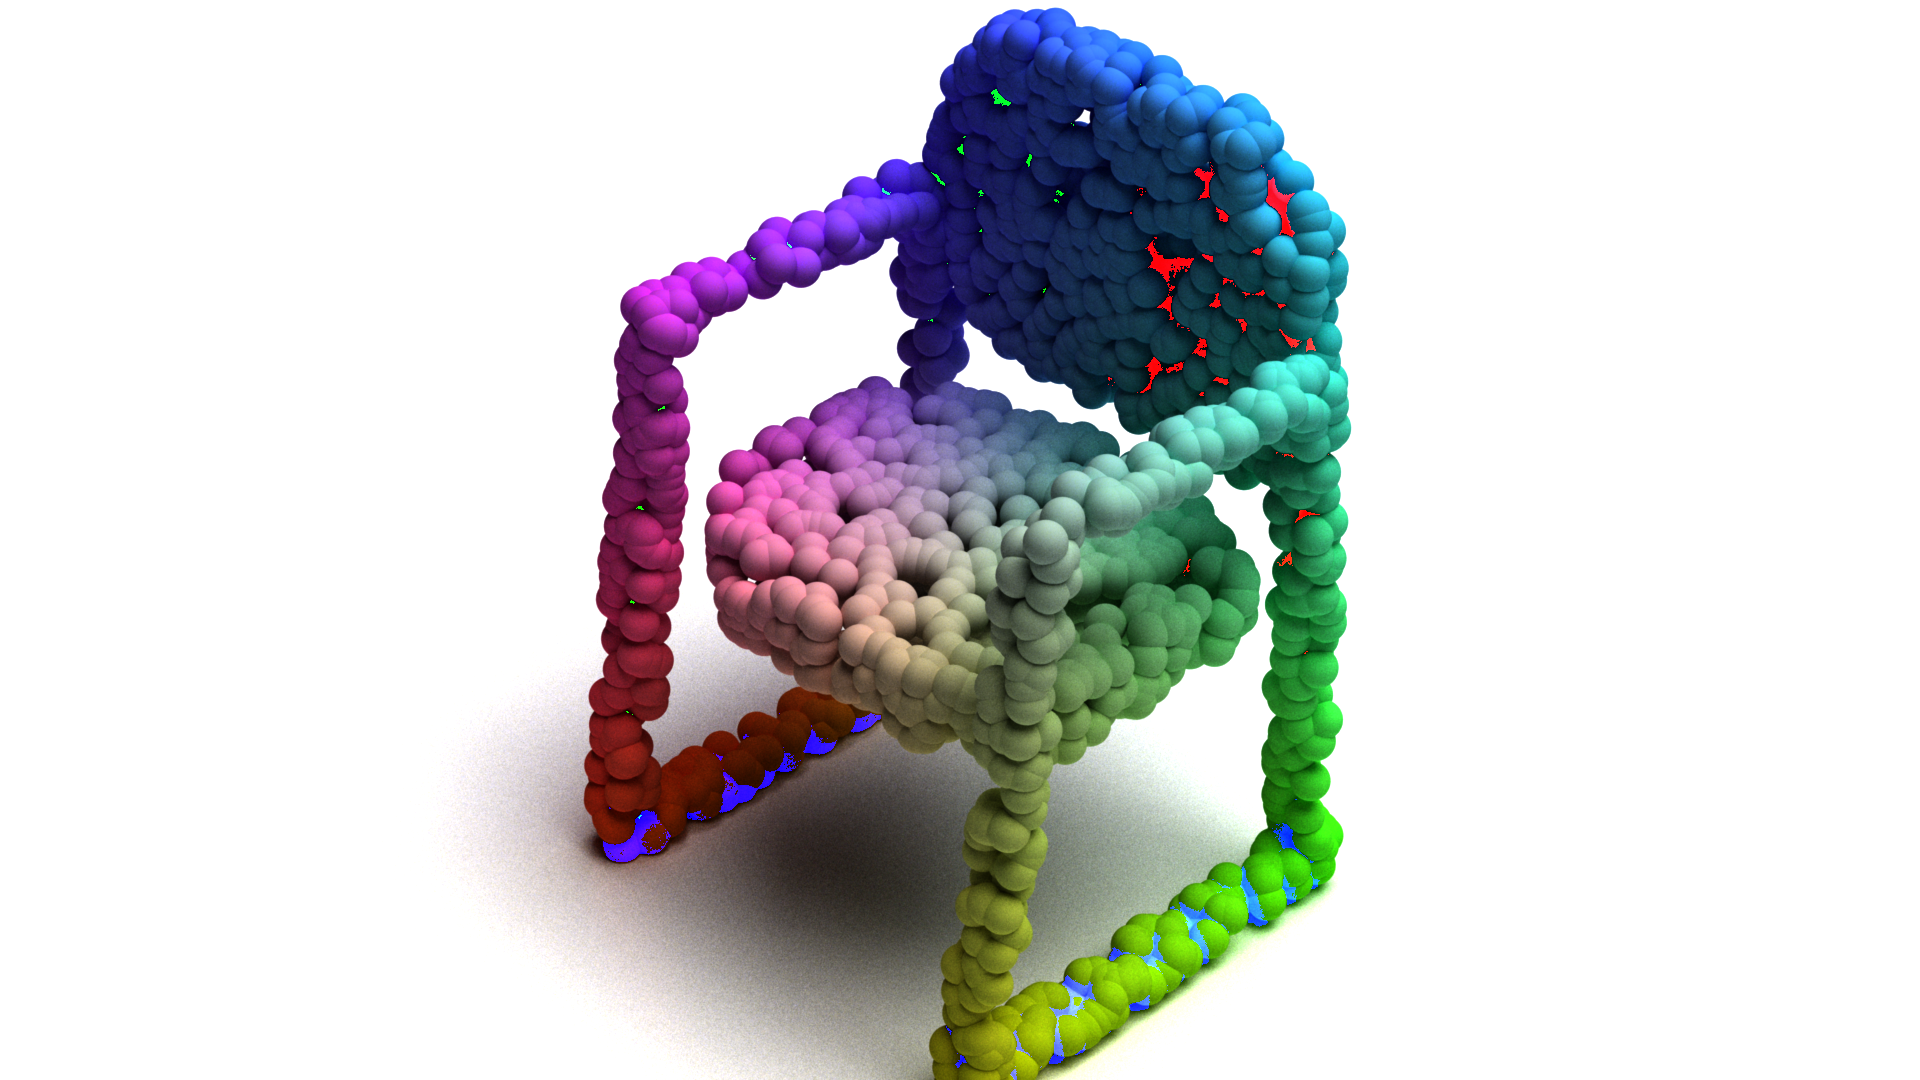
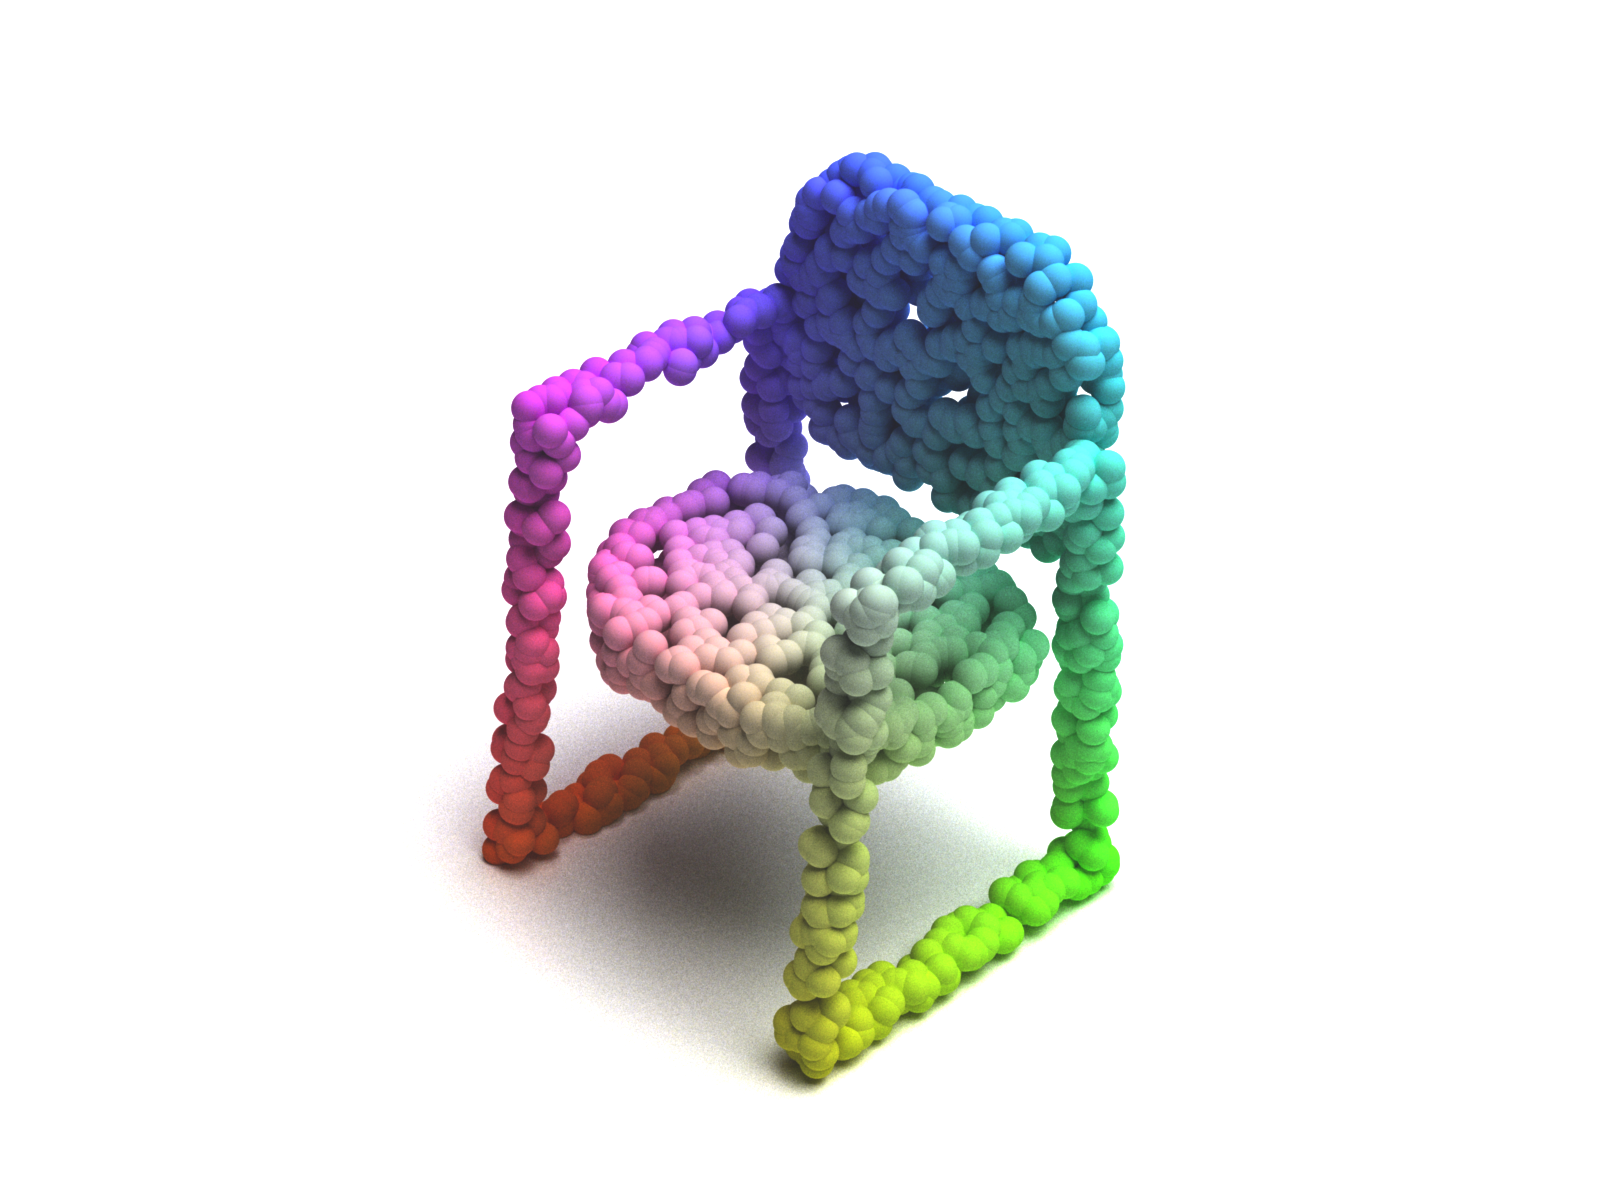
fix for color range

Changed region(s): [[0.25, 0.0, 0.7188, 1.0]]

diff --git a/pointflow_fig_colorful.py b/pointflow_fig_colorful.py
@@ -26,7 +26,7 @@ imageio.plugins.freeimage.download()
 #     rgb_image = data.astype('uint8')
 #     # rgb_image = imageio.core.image_as_uint(rgb_image, bitdepth=8)
 
-#     imageio.imwrite(jpg_file, rgb_image, format='jpeg')
+#     imageio.imwrite(jpg_file, rgb_image)
 #     return True
 
 
@@ -45,15 +45,15 @@ def convert_exr_to_jpg(exr_file, jpg_file):
     # remove alpha channel for jpg conversion
     image = image[:,:,:3]
 
-
-    data = 65535 * image
-    data[data>65535]=65535
+    data = 65535 * image + 10000
+    data[data > 65535] = 65535
     rgb_image = data.astype('uint16')
     print(rgb_image.dtype)
-    #rgb_image = imageio.core.image_as_uint(rgb_image, bitdepth=16)
+    rgb_image = imageio.core.image_as_uint(rgb_image, bitdepth=16)
 
     imageio.imwrite(jpg_file, rgb_image)
     return True
+
 
 def standardize_bbox(pcl, points_per_object):
     pt_indices = np.random.choice(pcl.shape[0], points_per_object, replace=False)
@@ -66,6 +66,7 @@ def standardize_bbox(pcl, points_per_object):
     print("Center: {}, Scale: {}".format(center, scale))
     result = ((pcl - center)/scale).astype(np.float32) # [-0.5, 0.5]
     return result
+
 
 xml_head = \
 """
@@ -84,9 +85,10 @@ xml_head = \
             <integer name="sampleCount" value="256"/>
         </sampler>
         <film type="hdrfilm">
-            <integer name="width" value="1920"/>
-            <integer name="height" value="1080"/>
+            <integer name="width" value="1600"/>
+            <integer name="height" value="1200"/>
             <rfilter type="gaussian"/>
+            <boolean name="banner" value="false"/>
         </film>
     </sensor>
     
@@ -134,30 +136,32 @@ xml_tail = \
 </scene>
 """
 
-def colormap(x,y,z):
-    vec = np.array([x,y,z])
-    vec = np.clip(vec, 0.001,1.0)
-    norm = np.sqrt(np.sum(vec**2))
+def colormap(x, y, z):
+    vec = np.array([x, y, z])
+    vec = np.clip(vec, 0.001, 1.0)
+    norm = np.sqrt(np.sum(vec ** 2))
     vec /= norm
     return [vec[0], vec[1], vec[2]]
+
 xml_segments = [xml_head]
 
 pcl = np.load('chair_pcl.npy')
 pcl = standardize_bbox(pcl, 2048)
-pcl = pcl[:,[2,0,1]]
+pcl = pcl[:, [2, 0, 1]]
 pcl[:,0] *= -1
 pcl[:,2] += 0.0125
 
 for i in range(pcl.shape[0]):
-    color = colormap(pcl[i,0]+0.5,pcl[i,1]+0.5,pcl[i,2]+0.5-0.0125)
-    xml_segments.append(xml_ball_segment.format(pcl[i,0],pcl[i,1],pcl[i,2], *color))
+    delta = 0.5
+    color = colormap(pcl[i,0] + delta, pcl[i,1] + delta,pcl[i,2] + delta -0.0125)
+    xml_segments.append(
+        xml_ball_segment.format(pcl[i, 0],pcl[i, 1],pcl[i, 2], *color))
 xml_segments.append(xml_tail)
 
 xml_content = str.join('', xml_segments)
 
 with open('mitsuba_scene.xml', 'w') as f:
     f.write(xml_content)
-
 
 # render xml to exr
 os.system(f"mitsuba mitsuba_scene.xml")
